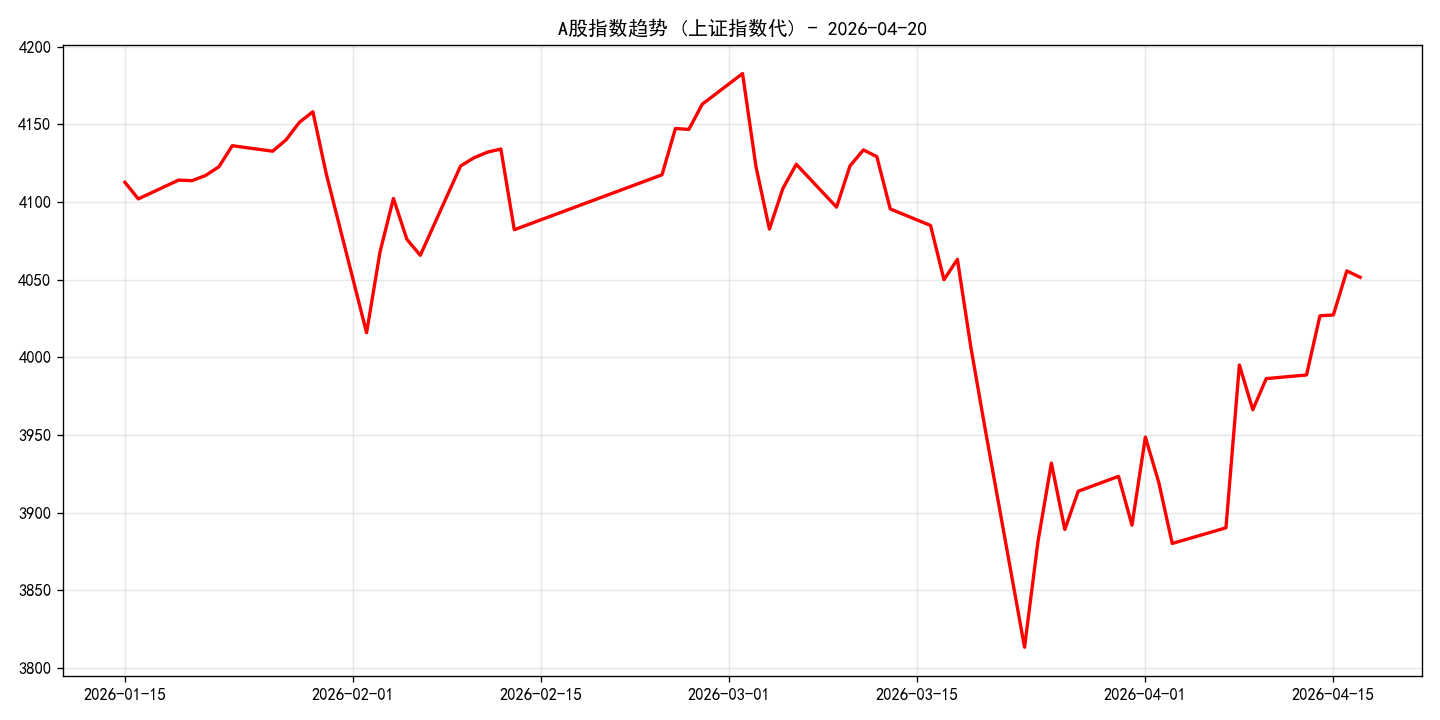
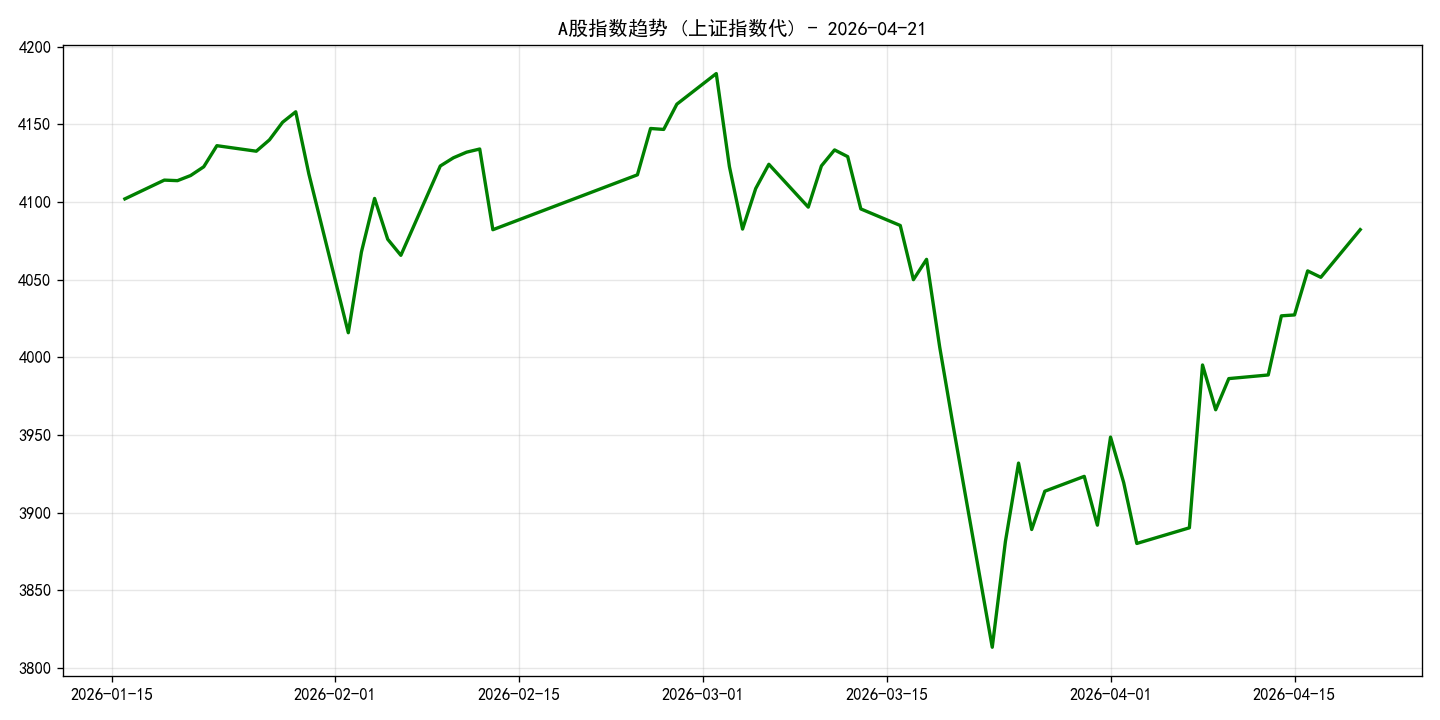
Auto: Daily A-share Recap Update 2026-04-21

diff --git a/ashare_recap.html b/ashare_recap.html
@@ -3,7 +3,7 @@
 <head>
     <meta charset="UTF-8">
     <meta name="viewport" content="width=device-width, initial-scale=1.0">
-    <title>A股收盘复盘 - 2026-04-20</title>
+    <title>A股收盘复盘 - 2026-04-21</title>
     <style>
         body { font-family: sans-serif; padding: 20px; line-height: 1.6; max-width: 800px; margin: 0 auto; background: #f9f9f9; }
         .card { background: white; padding: 20px; border-radius: 12px; shadow: 0 4px 10px rgba(0,0,0,0.1); }
@@ -15,12 +15,12 @@
 </head>
 <body>
     <div class="card">
-        <h1>A股收盘复盘 (2026-04-20)</h1>
+        <h1>A股收盘复盘 (2026-04-21)</h1>
         <div class="stat">
-            中证全指：6300.21 
-            <span class="up">(+0.74%)</span>
+            中证全指：6297.91 
+            <span class="down">(-0.04%)</span>
         </div>
-        <p>今日市场呈现<strong>上涨</strong>态势。成交额约为 25434.54 亿元。</p>
+        <p>今日市场呈现<strong>下跌</strong>态势。成交额约为 23547.44 亿元。</p>
         <img src="ashare_recap_trend.png" alt="Trend">
         <hr>
         <p style="text-align: center; color: #666;">自动生成于收盘后一小时 | 投研助手 Q</p>
